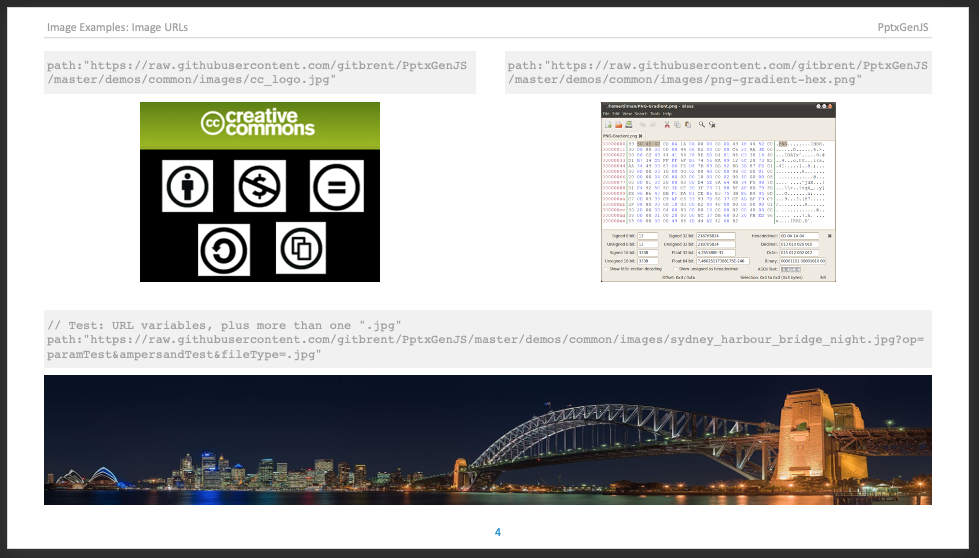
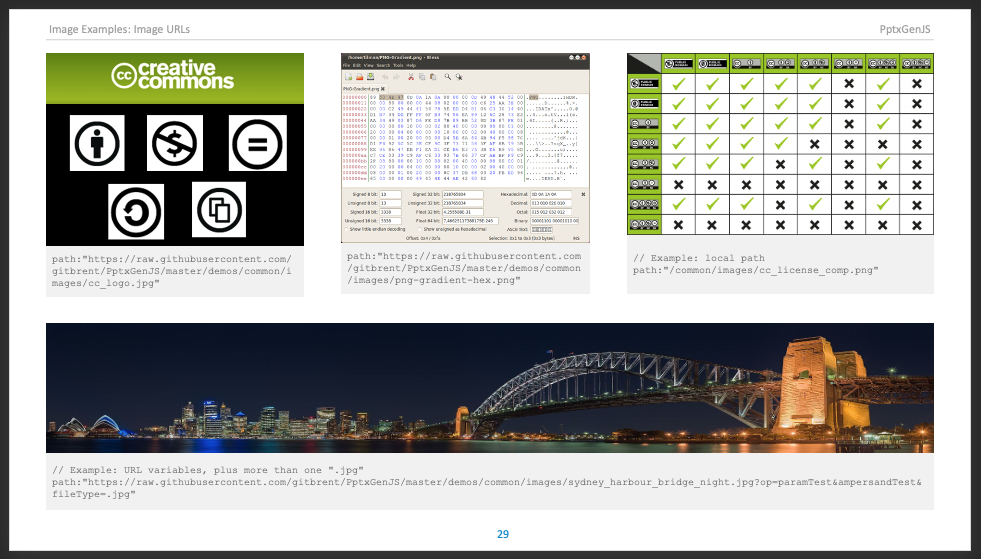
updated images and docs for v3.12.0

diff --git a/docs/api-images.md b/docs/api-images.md
@@ -42,7 +42,7 @@ It takes CPU time to read and encode images! The more images you include and the
 
 ## Base Properties
 
-### Position/Size Props ([PositionProps](/PptxGenJS/docs/types#position-props))
+### Position/Size Props ([PositionProps](./types.md#datapath-props-dataorpathprops))
 
 | Option | Type   | Default | Description            | Possible Values                              |
 | :----- | :----- | :------ | :--------------------- | :------------------------------------------- |
@@ -55,21 +55,21 @@ It takes CPU time to read and encode images! The more images you include and the
 | `h`    | number | `1.0`   | height (inches)        | 0-n                                          |
 | `h`    | string |         | height (percent)       | 'n%'. (Ex: `{h:'50%'}` 50% the Slide height) |
 
-### Data/Path Props ([DataOrPathProps](/PptxGenJS/docs/types#datapath-props-dataorpathprops))
+### Data/Path Props ([DataOrPathProps](./types.md#datapath-props-dataorpathprops))
 
 | Option | Type   | Default | Description         | Possible Values                                                            |
 | :----- | :----- | :------ | :------------------ | :------------------------------------------------------------------------- |
 | `data` | string |         | image data (base64) | base64-encoded image string. (either `data` or `path` is required)         |
 | `path` | string |         | image path          | Same as used in an (img src="") tag. (either `data` or `path` is required) |
 
-### Image Props ([ImageProps](/PptxGenJS/docs/types#image-props-imageprops))
+### Image Props ([ImageProps](./types.md#image-props-imageprops))
 
 | Option         | Type                                                                   | Default | Description                 | Possible Values                                       |
 | :------------- | :--------------------------------------------------------------------- | :------ | :-------------------------- | :---------------------------------------------------- |
 | `altText`      | string                                                                 |         | alt text value              | description of what image shows                       |
 | `flipH`        | boolean                                                                | `false` | Flip horizontally?          | `true`, `false`                                       |
 | `flipV`        | boolean                                                                | `false` | Flip vertical?              | `true`, `false`                                       |
-| `hyperlink`    | [HyperlinkProps](/PptxGenJS/docs/types#hyperlink-props-hyperlinkprops) |         | add hyperlink               | object with `url` or `slide`                          |
+| `hyperlink`    | [HyperlinkProps](./types.md#hyperlink-props-hyperlinkprops) |         | add hyperlink               | object with `url` or `slide`                          |
 | `placeholder`  | string                                                                 |         | image placeholder           | Placeholder location: `title`, `body`                 |
 | `rotate`       | integer                                                                | `0`     | rotation (degrees)          | Rotation degress: `0`-`359`                           |
 | `rounding`     | boolean                                                                | `false` | image rounding              | Shapes an image into a circle                         |
@@ -98,22 +98,34 @@ The `sizing` option provides cropping and scaling an image to a specified area. 
 
 - If you specify an area size larger than the image for the `contain` and `cover` type, then the image will be stretched, not shrunken.
 - In case of the `crop` option, if the specified area reaches out of the image, then the covered empty space will be a part of the image.
-- When the `sizing` property is used, its `w` and `h` values represent the effective image size. For example, in the following snippet, width and height of the image will both equal to 2 inches and its top-left corner will be located at [1 inch, 1 inch]:
+- When the `sizing` property is used, its `w` and `h` values represent the effective image size. For example, in the following snippet, width and height of the image will both equal to 2 inches and its top-left corner will be located at `[1 inch, 1 inch]`:
+
+## Shadow Properties (`ShadowProps`)
+
+The [ShadowProps](./types.md#shadow-props-shadowprops) property adds a shadow to an image.
 
 ## Examples
 
-### Image Types
+### Image Types Examples
 
-![Image Types](./assets/ex-image-types.gif)
+![Image Types Examples](./assets/ex-image-types.gif)
 
-### From URL
+### Data/Path Examples
 
-![Image Sizing Examples](./assets/ex-image-paths.png)
+![Image Paths Examples](./assets/ex-image-paths.png)
 
-### Sizing Options
+### Rotate Examples
+
+![Image Rotate Examples](./assets/ex-image-rotate.png)
+
+### Shadow Examples
+
+![Image Shadow Examples](./assets/ex-image-shadow.png)
+
+### Sizing Examples
 
 ![Image Sizing Examples](./assets/ex-image-sizing.png)
 
-## Samples
+## All Image Samples
 
-Sample code: [demos/modules/demo_image.mjs](https://github.com/gitbrent/PptxGenJS/blob/master/demos/modules/demo_image.mjs)
+All sample javascript code: [demos/modules/demo_image.mjs](https://github.com/gitbrent/PptxGenJS/blob/master/demos/modules/demo_image.mjs)
